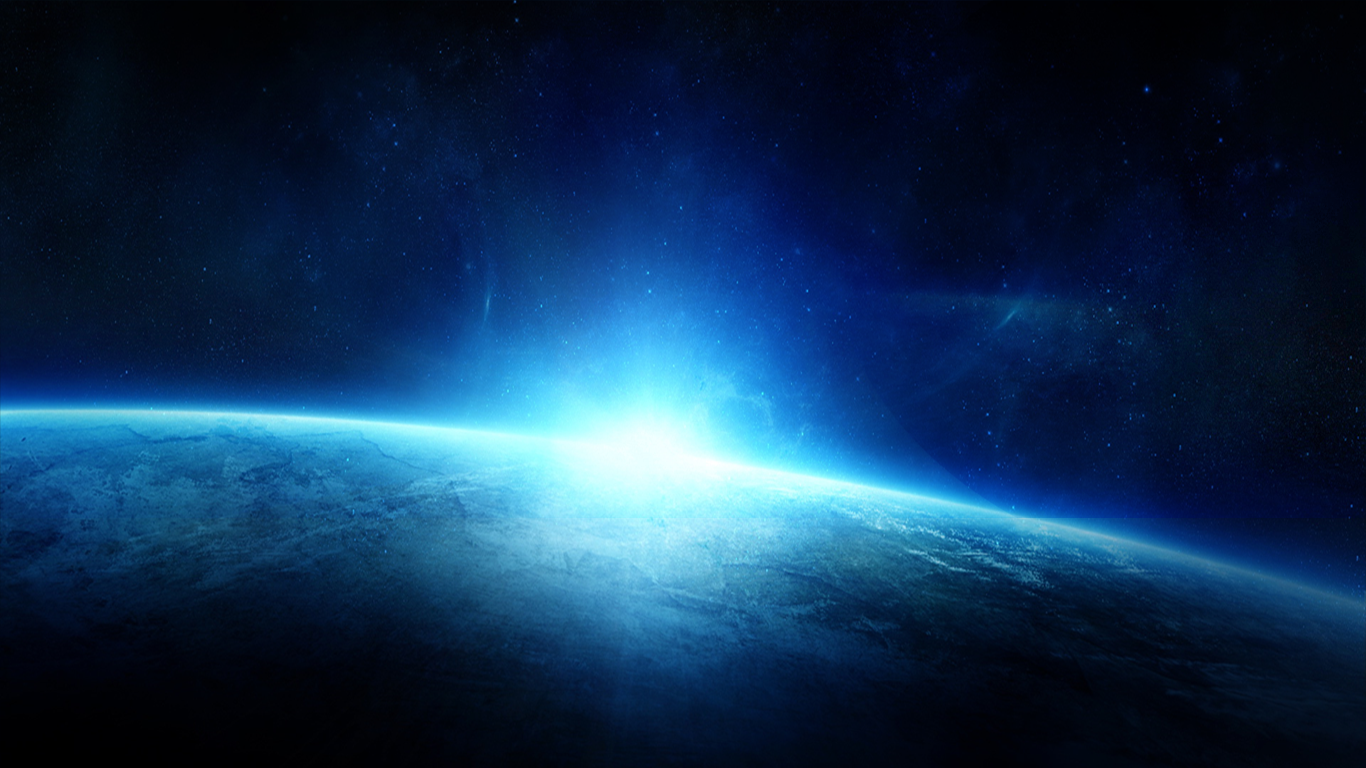
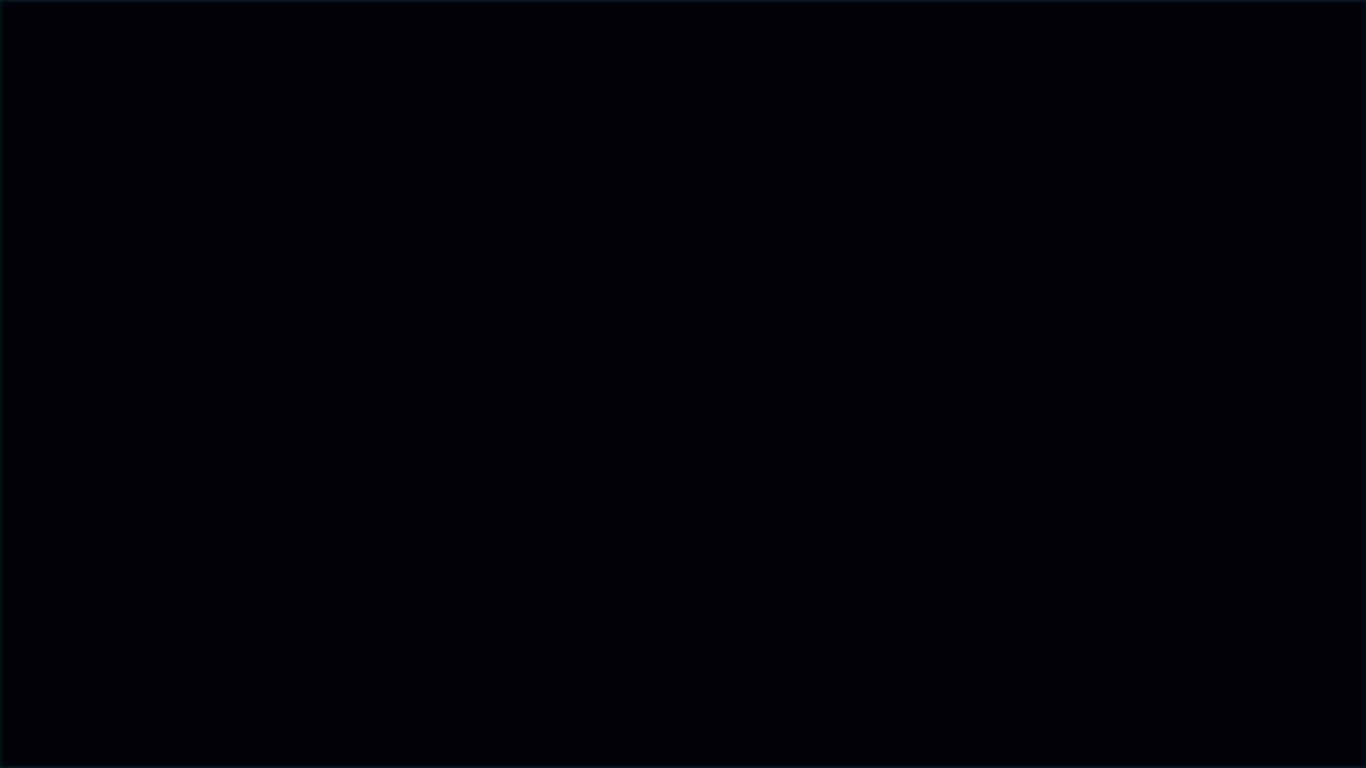
update styles, add earth image

diff --git a/scripts/summary.js b/scripts/summary.js
@@ -1,17 +1,36 @@
 //整体概况
 $(function() {
     var master = this.master = new TimelineMax({});
+    master.add([earthStep(),headerStep()]);
     master.add(menuStep());
     master.add(menuList3Step());
 
-    function menuStep() {
+    function earthStep() {
+        var $earth = $(".earth");
         var step = new TimelineLite({
-            title: "整体概况",
             onStart: function() {
                 $("#scale").addClass("hide");
                 $("#company").addClass("hide");
             }
-    	});
+        });
+        step.add(TweenMax.to($earth, 2, {
+            opacity: 1
+        }));
+        return step;
+    }
+
+    function headerStep(){
+    	var $header = $("#header");
+    	return TweenMax.to($header, 2, {
+            opacity: 1
+        });
+    }
+
+    function menuStep() {
+        var step = new TimelineLite({
+            title: "整体概况",
+            onStart: function() {}
+        });
 
         var $menu = $("#menu");
 
@@ -39,7 +58,11 @@ $(function() {
 
 
         step.add(
-            TweenLite.to($obj, 2, { rotationY: 360, transformOrigin: "center center", delay: 8 })
+            TweenLite.to($obj, 2, {
+                rotationY: 360,
+                transformOrigin: "center center",
+                delay: 8
+            })
         );
         return step;
     }

diff --git a/css/index.css b/css/index.css
@@ -2,11 +2,19 @@
      margin: 0;
      padding: 0;
  }
+
+ html{
+    background-color: black;
+ }
  
  body {
-     font: "微软雅黑" 12px;
-     background: url(../images/index/bg.png) no-repeat;
-     overflow: hidden;
+    position: relative;
+    margin: 0 auto;
+    width: 1377px;
+    height: 768px;
+    font: "微软雅黑" 12px;
+    background: url(../images/index/bg.png) no-repeat;
+    overflow: hidden;
  }
  ul,ol{
     list-style: none;
@@ -14,12 +22,26 @@
  .hidden{
     display: none;
  }
+
+ .earth{
+    background: url(../images/index/earth.png) no-repeat;
+    position: absolute;
+    top: 0;
+    left: 0;
+    width: 1377px;
+    height: 100vh;
+    z-index: 1;
+    opacity: 0;
+ }
  
  #header {
+     position: relative;
+     z-index: 1;
      width: 100%;
      height: 49px;
      background: url(../images/index/index_header.png) no-repeat;
      line-height: 49px;
+     opacity: 0;
  }
  
  .header_content {
@@ -47,6 +69,7 @@
  
  .content {
      position: relative;
+     z-index: 10;
  }
  
  #menu {

diff --git a/scripts/areas.js b/scripts/areas.js
@@ -1,0 +1,32 @@
+var areas = {
+    // "51101": "四川",
+    "51401": "成都",
+    "51403": "南充",
+    "51428": "天府新区",
+    "51402": "达州",
+    "51404": "江",
+    "51405": "宜宾",
+    "51406": "自贡",
+    "51407": "泸州",
+    "51408": "攀枝花",
+    "51409": "凉山",
+    "51410": "绵阳",
+    "51411": "乐山",
+    "51412": "德阳",
+    "51413": "广元",
+    "51414": "巴中",
+    "51415": "广安",
+    "51416": "眉山",
+    "51417": "资阳",
+    "51418": "甘孜",
+    "51517": "甘孜州",
+    "51419": "阿坝",
+    "51420": "雅安",
+    "51421": "遂宁",
+    "51486": "雅安",
+    "51490": "阿坝"
+}
+
+var paths = {
+
+}

diff --git a/index.html b/index.html
@@ -21,6 +21,7 @@
 </head>
 
 <body>
+    <div class="earth"></div>
     <header id="header">
         <div class="header_content header_left">国网四川省电力公司</div>
         <div class="header_content header_right">2016年2月8日</div>
